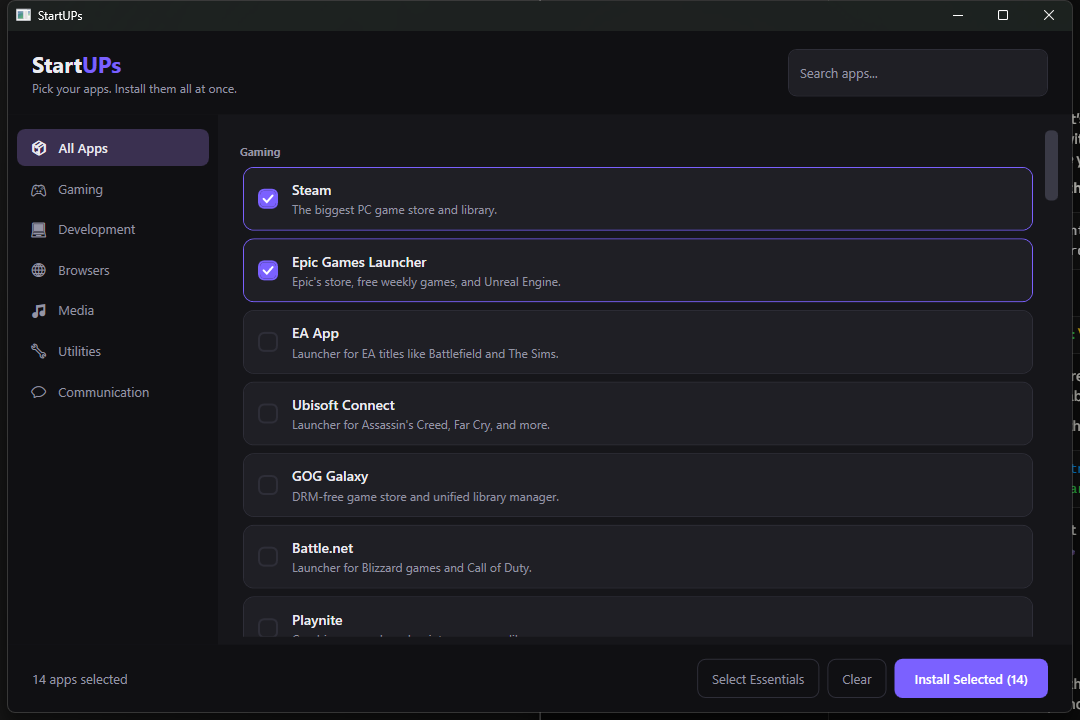
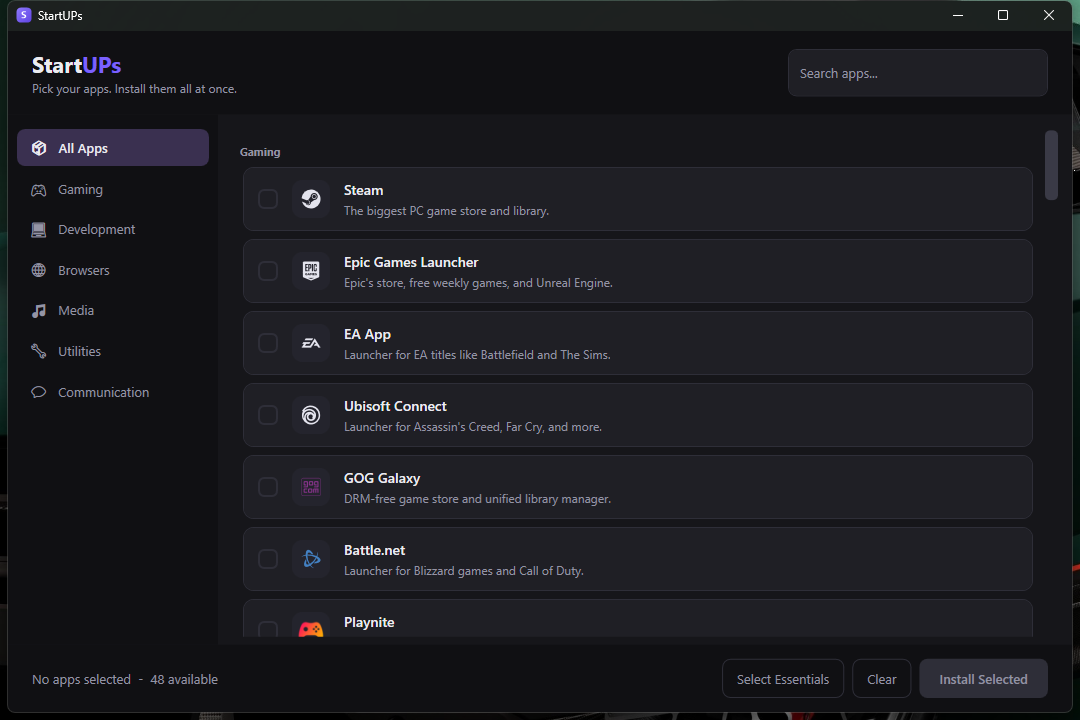
Shorten splash and refresh docs for v1.0.0
- Splash trimmed from 5.6s to 3.2s (three loading messages instead of five).
  The single-file exe already spends a few seconds self-extracting before
  any code runs, so a long splash sat on top of an existing wait.
- Fresh screenshots of the main window and splash
- README documents the icon system, the download link, and the startup cost

diff --git a/StartUPs/SplashWindow.xaml.cs b/StartUPs/SplashWindow.xaml.cs
@@ -10,7 +10,7 @@ namespace StartUPs;
 public partial class SplashWindow : Window
 {
     /// <summary>How long each loading message stays on screen.</summary>
-    private static readonly TimeSpan MessageInterval = TimeSpan.FromMilliseconds(1100);
+    private static readonly TimeSpan MessageInterval = TimeSpan.FromMilliseconds(1000);
 
     /// <summary>Shuffled each launch so the splash never reads identically twice.</summary>
     private static readonly string[] MessagePool =
@@ -46,7 +46,7 @@ public partial class SplashWindow : Window
 
     private void BuildMessageQueue()
     {
-        var shuffled = MessagePool.OrderBy(_ => Random.Shared.Next()).Take(4);
+        var shuffled = MessagePool.OrderBy(_ => Random.Shared.Next()).Take(2);
 
         foreach (var message in shuffled)
             _messages.Enqueue(message);

diff --git a/StartUPs/App.xaml.cs b/StartUPs/App.xaml.cs
@@ -10,9 +10,11 @@ public partial class App : Application
 {
     /// <summary>
     /// Keep the splash up at least this long so it never flickers past. Sized to let
-    /// all five loading messages land: 5 x 1.1s of message time, plus the intro.
+    /// all three loading messages land: 3 x 1.0s, plus the entrance animation.
+    /// Deliberately short - the single-file exe already spends a few seconds
+    /// self-extracting before any of this code runs.
     /// </summary>
-    private static readonly TimeSpan MinimumSplashTime = TimeSpan.FromMilliseconds(5600);
+    private static readonly TimeSpan MinimumSplashTime = TimeSpan.FromMilliseconds(3200);
 
     protected override async void OnStartup(StartupEventArgs e)
     {

diff --git a/README.md b/README.md
@@ -15,6 +15,7 @@ Setting up a fresh Windows install means visiting a dozen websites, dodging the 
 ## Features
 
 - **48 apps across 6 categories** — Gaming, Development, Browsers, Media, Utilities, Communication
+- **Real icons for every app** — no placeholder tiles anywhere
 - **One UAC prompt for the whole batch** — not one per app
 - **Live download progress** with a real transfer-speed readout
 - **Skips what you already have** — checks each app before installing
@@ -22,6 +23,14 @@ Setting up a fresh Windows install means visiting a dozen websites, dodging the 
 - **Instant search** across app names, descriptions, and package IDs
 - **Cancel any time** — stops the current download and leaves the rest untouched
 - **Single portable .exe** — no installer, no .NET runtime required
+
+![Splash screen](docs/splash.png)
+
+## Download
+
+Grab `StartUPs.exe` from the [latest release](https://github.com/Distortionzz/StartUPs/releases). It is a single self-contained file — no installer, nothing to unzip.
+
+On first run Windows SmartScreen will warn about an unrecognised app, because the executable is unsigned. Click **More info → Run anyway**.
 
 ## How it works
 
@@ -100,19 +109,35 @@ StartUPs/
   docs/                      screenshots
   StartUPs/
     catalog.json             the app catalog (embedded at build time)
+    icons.json               vector brand glyphs, keyed by winget ID
+    Assets/AppIcons/         PNG icons for apps with no vector glyph
     Models/                  AppEntry, Catalog, InstallState
     Services/
       CatalogService.cs      loads the embedded catalog
+      IconService.cs         resolves each app's icon
       WingetService.cs       runs winget, parses live progress
     Theme.xaml               dark palette and control styles
+    SplashWindow.xaml(.cs)   animated startup splash
     MainWindow.xaml(.cs)     layout, filtering, install queue
     app.manifest             requests administrator at launch
     icon.ico                 app icon, 7 sizes
 ```
 
+## App icons
+
+Every app in the catalog shows its genuine icon, from one of two sources:
+
+- **36 apps** use vector brand glyphs from [Simple Icons](https://simpleicons.org/), stored as raw path data in `icons.json` and rendered natively by WPF. They stay crisp at any size and cost about 61 KB in total.
+- **12 apps** with no brand glyph — mostly niche utilities such as HWiNFO, GPU-Z and Everything — ship as PNGs extracted from their official installers.
+
+Brand colours that are close to black are automatically swapped for a light substitute, so marks like Steam's stay visible against the dark theme.
+
+Simple Icons is CC0; the brand marks themselves remain trademarks of their respective owners.
+
 ## Known limitations
 
 - **SmartScreen warning.** The executable is unsigned, so Windows shows "Windows protected your PC" on first run. Click *More info -> Run anyway*. Removing this requires a paid code-signing certificate.
+- **Startup takes a few seconds.** The single-file build compresses the whole .NET runtime into one executable, and Windows must unpack it before any code runs — roughly 3 seconds warm, longer on a first run. The splash screen only appears after that, so it cannot cover it. Turning off `EnableCompressionInSingleFile` would roughly halve the wait at the cost of doubling the file size.
 - **Progress covers downloading only.** Once a file is downloaded, winget hands off to the vendor's own installer, which reports no progress — the bar sits at 100% showing "Installing..." until it finishes.
 - **Microsoft Store apps excluded.** Apps that exist only in the Store (NVIDIA App, WhatsApp) are left out of the catalog because Store packages do not reliably install silently.
 
